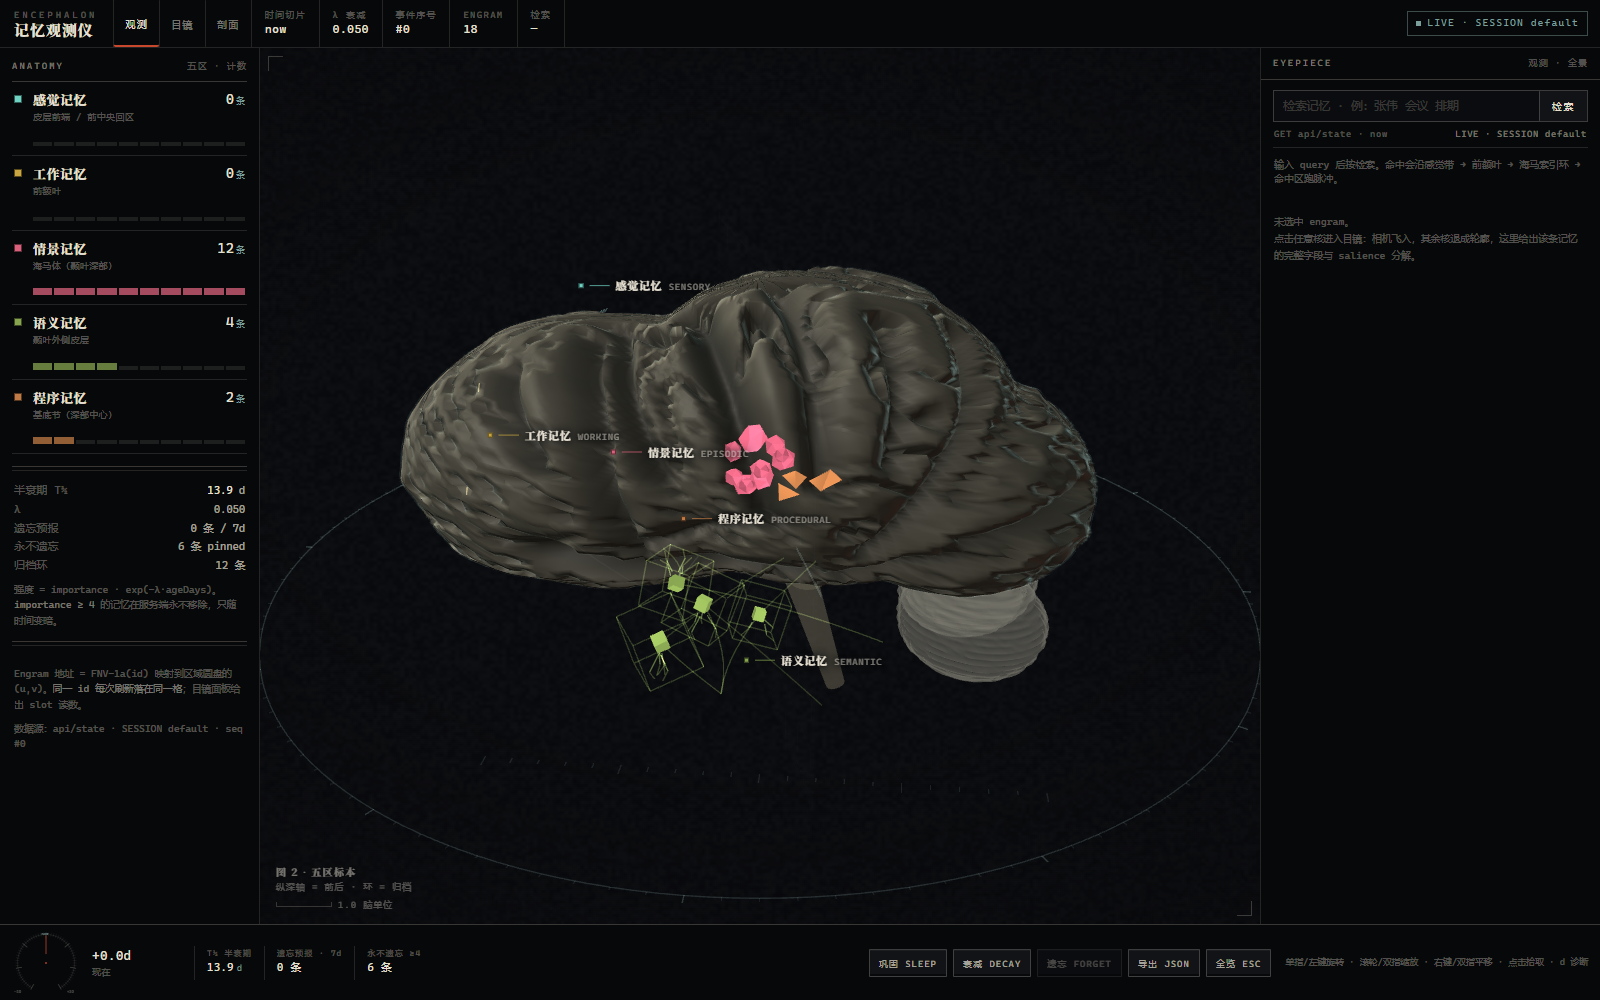
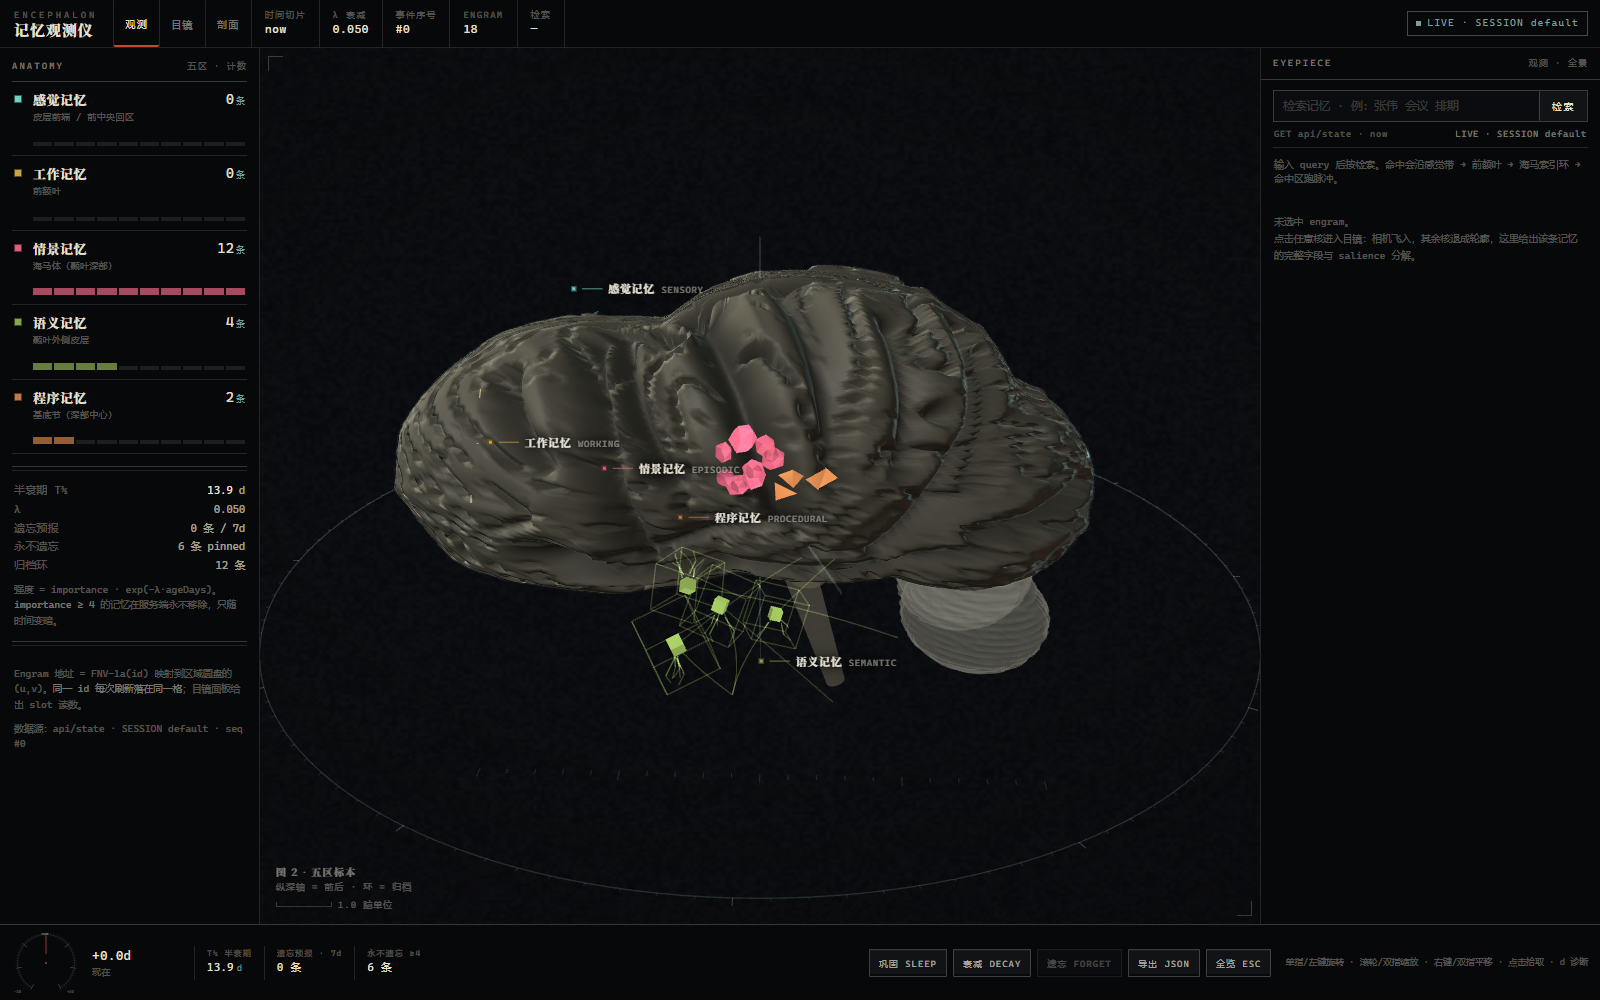
feat(3d): 细分 224x168 + 18 条骨架（补顶叶）+ 叶区脑回宽度调制

Changed region(s): [[0.25, 0.279, 0.6875, 0.682]]

diff --git a/dist/deepseek-brain-3d.html b/dist/deepseek-brain-3d.html
@@ -452,7 +452,7 @@ globalThis.THREE=Object.freeze({ACESFilmicToneMapping:nt,AddEquation:M,AddOperat
     low: small || weak,
     antialias: !(small || weak),
     pixelRatio: small ? Math.min(dpr, 1.5) : dpr,
-    seg: small ? [96, 72] : [176, 132],
+    seg: small ? [104, 80] : [224, 168],
     shell: !(small || weak),
     rim: !(small || weak),
     stars: small ? 340 : 760,
@@ -973,8 +973,10 @@ globalThis.THREE=Object.freeze({ACESFilmicToneMapping:nt,AddEquation:M,AddOperat
     /* 额叶 */
     { id: 'frontal-sup',   w: 0.046, depth: 0.68, pts: [[0.22, 0.94, 0.60], [0.42, 0.86, 0.60], [0.64, 0.70, 0.56], [0.82, 0.48, 0.52]] },
     { id: 'frontal-inf',   w: 0.044, depth: 0.64, pts: [[0.32, 0.62, 0.74], [0.52, 0.50, 0.72], [0.74, 0.34, 0.68]] },
-    /* 顶叶 */
+    /* 顶叶：顶内沟 + 顶上沟 + 顶枕外侧支（补掉原先的空档） */
     { id: 'intraparietal', w: 0.046, depth: 0.66, pts: [[0.30, 0.78, -0.34], [0.52, 0.62, -0.40], [0.74, 0.40, -0.44]] },
+    { id: 'parietal-sup',  w: 0.044, depth: 0.62, pts: [[0.22, 0.90, -0.12], [0.46, 0.82, -0.18], [0.68, 0.64, -0.22], [0.84, 0.40, -0.24]] },
+    { id: 'parieto-lat',   w: 0.042, depth: 0.58, pts: [[0.16, 0.66, -0.62], [0.42, 0.44, -0.66], [0.66, 0.22, -0.68]] },
     /* 颞叶 */
     { id: 'sts',           w: 0.054, depth: 0.82, pts: [[0.86, -0.54, 0.62], [0.94, -0.58, 0.20], [0.95, -0.56, -0.22], [0.88, -0.52, -0.52]] },
     { id: 'temporal-inf',  w: 0.044, depth: 0.62, pts: [[0.84, -0.74, 0.44], [0.90, -0.78, 0.04], [0.88, -0.76, -0.34]] },
@@ -1038,23 +1040,36 @@ globalThis.THREE=Object.freeze({ACESFilmicToneMapping:nt,AddEquation:M,AddOperat
     return _sk;
   }
 
-  function hemiPoint(px, py, pz, side) {
+  /* 皮层高度场：一级沟深槽 + 沿沟平行的次级沟 + 三级沟倍频 + Voronoi 顶冠。
+     抽成独立函数，既是顶点位移的来源，也是法线贴图的烘焙源——两者必须同源。 */
+  var _det = { sul: 0, bump: 0, warpA: 0, warpB: 0 };
+  function surfaceDetail(px, py, pz) {
     var warpA = fbm(px * 3.1 + 11.3, py * 3.1 - 4.1, pz * 3.1 + 7.7, 3);
     var warpB = fbm(px * 4.6 - 2.9, py * 4.6 + 9.2, pz * 4.6 - 5.4, 3);
     var near = sulcusField(px, py, pz);
-    /* 一级沟：以骨架为中心的深槽，宽度取自它自己那一条 */
+    /* 脑回宽度按叶区调制：额极更宽（相位更疏），枕极更细，中央区取中 */
+    var gf = 1.0 - 0.15 * smoothstep(0.0, 0.90, pz) + 0.20 * smoothstep(0.10, -0.85, pz);
     var primary = Math.exp(-Math.pow(near.d1 / near.w, 2.0)) * near.depth;
-    /* 次级沟：相位由「弧长 + 到沟的距离」混合而成，沿最近的沟平行铺开 */
-    var phase = (near.phase + warpA * 0.48 + warpB * 0.22) * Math.PI;
+    var phase = (near.phase * gf + warpA * 0.48 + warpB * 0.22) * Math.PI;
     var band = Math.abs(Math.sin(phase));
-    var secondary = (1 - smoothstep(0.0, 0.215, band)) * 0.88;
-    /* 三级：同相位的倍频，压掉「同心圆」的机械感 */
-    var tert = Math.abs(Math.sin((near.phase * 2.6 - warpB * 1.0) * Math.PI));
+    var secondary = (1 - smoothstep(0.0, 0.215 * (0.9 + 0.1 * gf), band)) * 0.88;
+    var tert = Math.abs(Math.sin((near.phase * gf * 2.6 - warpB * 1.0) * Math.PI));
     var tertiary = (1 - smoothstep(0.0, 0.13, tert)) * 0.24;
-    /* Voronoi：两条一级沟势力范围的分界线上抬成脑回顶冠，避免出现平台 */
     var wall = near.d2 < 8 ? Math.exp(-Math.pow((near.d2 - near.d1) / 0.055, 2.0)) : 0;
     var sul = Math.max(primary, Math.max(secondary, tertiary));
-    var bump = (1 - sul) * 0.55 + 0.45 * warpA + 0.18 * wall;
+    _det.sul = sul;
+    _det.bump = (1 - sul) * 0.55 + 0.45 * warpA + 0.18 * wall;
+    _det.warpA = warpA;
+    _det.warpB = warpB;
+    return _det;
+  }
+
+  function hemiPoint(px, py, pz, side) {
+    var warpA = fbm(px * 3.1 + 11.3, py * 3.1 - 4.1, pz * 3.1 + 7.7, 3);
+    var warpB = fbm(px * 4.6 - 2.9, py * 4.6 + 9.2, pz * 4.6 - 5.4, 3);
+    var det = surfaceDetail(px, py, pz);
+    var warpA = det.warpA, warpB = det.warpB;
+    var sul = det.sul, bump = det.bump;
     var disp = 1 + 0.094 * bump - 0.118 * sul;
     /* 叶形半径：同一条射线上的边界由四叶并集给出，不再是单位球 */
     var lobe = lobeRadius(px, py, pz, side) * LOBE_K;

diff --git a/web/brain-3d.html b/web/brain-3d.html
@@ -440,7 +440,7 @@
     low: small || weak,
     antialias: !(small || weak),
     pixelRatio: small ? Math.min(dpr, 1.5) : dpr,
-    seg: small ? [96, 72] : [176, 132],
+    seg: small ? [104, 80] : [224, 168],
     shell: !(small || weak),
     rim: !(small || weak),
     stars: small ? 340 : 760,
@@ -961,8 +961,10 @@
     /* 额叶 */
     { id: 'frontal-sup',   w: 0.046, depth: 0.68, pts: [[0.22, 0.94, 0.60], [0.42, 0.86, 0.60], [0.64, 0.70, 0.56], [0.82, 0.48, 0.52]] },
     { id: 'frontal-inf',   w: 0.044, depth: 0.64, pts: [[0.32, 0.62, 0.74], [0.52, 0.50, 0.72], [0.74, 0.34, 0.68]] },
-    /* 顶叶 */
+    /* 顶叶：顶内沟 + 顶上沟 + 顶枕外侧支（补掉原先的空档） */
     { id: 'intraparietal', w: 0.046, depth: 0.66, pts: [[0.30, 0.78, -0.34], [0.52, 0.62, -0.40], [0.74, 0.40, -0.44]] },
+    { id: 'parietal-sup',  w: 0.044, depth: 0.62, pts: [[0.22, 0.90, -0.12], [0.46, 0.82, -0.18], [0.68, 0.64, -0.22], [0.84, 0.40, -0.24]] },
+    { id: 'parieto-lat',   w: 0.042, depth: 0.58, pts: [[0.16, 0.66, -0.62], [0.42, 0.44, -0.66], [0.66, 0.22, -0.68]] },
     /* 颞叶 */
     { id: 'sts',           w: 0.054, depth: 0.82, pts: [[0.86, -0.54, 0.62], [0.94, -0.58, 0.20], [0.95, -0.56, -0.22], [0.88, -0.52, -0.52]] },
     { id: 'temporal-inf',  w: 0.044, depth: 0.62, pts: [[0.84, -0.74, 0.44], [0.90, -0.78, 0.04], [0.88, -0.76, -0.34]] },
@@ -1026,23 +1028,36 @@
     return _sk;
   }
 
-  function hemiPoint(px, py, pz, side) {
+  /* 皮层高度场：一级沟深槽 + 沿沟平行的次级沟 + 三级沟倍频 + Voronoi 顶冠。
+     抽成独立函数，既是顶点位移的来源，也是法线贴图的烘焙源——两者必须同源。 */
+  var _det = { sul: 0, bump: 0, warpA: 0, warpB: 0 };
+  function surfaceDetail(px, py, pz) {
     var warpA = fbm(px * 3.1 + 11.3, py * 3.1 - 4.1, pz * 3.1 + 7.7, 3);
     var warpB = fbm(px * 4.6 - 2.9, py * 4.6 + 9.2, pz * 4.6 - 5.4, 3);
     var near = sulcusField(px, py, pz);
-    /* 一级沟：以骨架为中心的深槽，宽度取自它自己那一条 */
+    /* 脑回宽度按叶区调制：额极更宽（相位更疏），枕极更细，中央区取中 */
+    var gf = 1.0 - 0.15 * smoothstep(0.0, 0.90, pz) + 0.20 * smoothstep(0.10, -0.85, pz);
     var primary = Math.exp(-Math.pow(near.d1 / near.w, 2.0)) * near.depth;
-    /* 次级沟：相位由「弧长 + 到沟的距离」混合而成，沿最近的沟平行铺开 */
-    var phase = (near.phase + warpA * 0.48 + warpB * 0.22) * Math.PI;
+    var phase = (near.phase * gf + warpA * 0.48 + warpB * 0.22) * Math.PI;
     var band = Math.abs(Math.sin(phase));
-    var secondary = (1 - smoothstep(0.0, 0.215, band)) * 0.88;
-    /* 三级：同相位的倍频，压掉「同心圆」的机械感 */
-    var tert = Math.abs(Math.sin((near.phase * 2.6 - warpB * 1.0) * Math.PI));
+    var secondary = (1 - smoothstep(0.0, 0.215 * (0.9 + 0.1 * gf), band)) * 0.88;
+    var tert = Math.abs(Math.sin((near.phase * gf * 2.6 - warpB * 1.0) * Math.PI));
     var tertiary = (1 - smoothstep(0.0, 0.13, tert)) * 0.24;
-    /* Voronoi：两条一级沟势力范围的分界线上抬成脑回顶冠，避免出现平台 */
     var wall = near.d2 < 8 ? Math.exp(-Math.pow((near.d2 - near.d1) / 0.055, 2.0)) : 0;
     var sul = Math.max(primary, Math.max(secondary, tertiary));
-    var bump = (1 - sul) * 0.55 + 0.45 * warpA + 0.18 * wall;
+    _det.sul = sul;
+    _det.bump = (1 - sul) * 0.55 + 0.45 * warpA + 0.18 * wall;
+    _det.warpA = warpA;
+    _det.warpB = warpB;
+    return _det;
+  }
+
+  function hemiPoint(px, py, pz, side) {
+    var warpA = fbm(px * 3.1 + 11.3, py * 3.1 - 4.1, pz * 3.1 + 7.7, 3);
+    var warpB = fbm(px * 4.6 - 2.9, py * 4.6 + 9.2, pz * 4.6 - 5.4, 3);
+    var det = surfaceDetail(px, py, pz);
+    var warpA = det.warpA, warpB = det.warpB;
+    var sul = det.sul, bump = det.bump;
     var disp = 1 + 0.094 * bump - 0.118 * sul;
     /* 叶形半径：同一条射线上的边界由四叶并集给出，不再是单位球 */
     var lobe = lobeRadius(px, py, pz, side) * LOBE_K;

diff --git a/README.md b/README.md
@@ -341,12 +341,14 @@ node tools/build-3d.mjs      # 生成 dist/deepseek-brain-3d.html
 
 - 皮层不再是一颗椭球：`LOBE_C` 定义额/顶/枕/颞四叶的椭球场（`[cx,cy,cz, rx,ry,rz, mirror]`，颞叶按半球镜像），用 polynomial smooth-max（`k = 0.14`）求并集，再沿每个顶点方向二分 16 次求边界半径 `lobeRadius()`；`LOBE_K` 把并集最大半径归一到 1。于是额极收窄、顶点抬高、枕极圆钝、颞叶外凸——这些都是几何而不是贴图。
 - 两个**闭合**半球：内侧顶点被 softMax 折到 `x ≈ ±gapHalf` 的墙面上，两壁之间是真缝（纵裂）；脑底面在颅底处压平（`py < -0.30` 后的 0.58 折减）。
-- 沟回由**带分叉的一级沟骨架树**驱动：`SULCI` 里的 16 条折线（中央沟主干 + 上支 + 下支、中央前/后沟、外侧裂主干 + 升支 + 后支、额上/额下沟、顶内沟、颞上/颞下沟、顶枕沟、距状沟、扣带沟）都定义在单位球方向空间；每个顶点一次遍历算出到最近骨架的角距离 `d1`、到次近骨架的 `d2` 与按 `w=exp(−(d/0.30)²)` 融合的相位——
+- 沟回由**带分叉的一级沟骨架树**驱动：`SULCI` 里的 18 条折线（中央沟主干 + 上支 + 下支、中央前/后沟、外侧裂主干 + 升支 + 后支、额上/额下沟、顶内沟、顶上沟、顶枕外侧支、颞上/颞下沟、顶枕沟、距状沟、扣带沟）都定义在单位球方向空间；每个顶点一次遍历算出到最近骨架的角距离 `d1`、到次近骨架的 `d2` 与按 `w=exp(−(d/0.30)²)` 融合的相位——
   - 一级沟：`d1≈0` 处按各自宽度开深槽 `exp(−(d1/w)²)·depth`；
   - 次级沟：相位 = 加权平均的 `(弧长·1.05 + d·17.0)`，所以脑回走向在两条沟的势力边界上是**平滑过渡**的，不会突然换向；
   - 三级沟：同相位倍频 `2.6×`，压掉同心圆；
-  - **Voronoi 顶冠**：`wall = exp(−((d2−d1)/0.055)²)` 在两条沟的分界线上把皮层抬起来，于是两沟之间是圆隆的脑回顶，而不是平台。
+  - **Voronoi 顶冠**：`wall = exp(−((d2−d1)/0.055)²)` 在两条沟的分界线上把皮层抬起来，于是两沟之间是圆隆的脑回顶，而不是平台；
+  - **叶区调制**：相位再乘一个由前后位置决定的 `gf = 1 − 0.15·smoothstep(0, 0.90, pz) + 0.20·smoothstep(0.10, −0.85, pz)`——额极更宽（`gf≈0.85`）、枕极更细（`gf≈1.20`），治掉原先「脑回宽度整齐划一」的塑料感。
   合成 `bump = (1−sul)·0.55 + 0.45·warpA + 0.18·wall`，`disp = 1 + 0.094·bump − 0.118·sul`。中央沟与外侧裂因此是真正的分叶深沟，不是画上去的线。
+- 半球细分 `seg: [224, 168]`（低画质 `[104, 80]`），约 10 万顶点/半球；加载时一次性算完位移与顶点色，桌面端 `DOMContentLoaded ≈ 1.2 s`。
 - 小脑是两半球 + 蚓部三个网格（共用一份叶片条纹几何），脑干与桥脑独立。
 - 皮层用 `MeshStandardMaterial` 承接真实定向光（key/fill/rim 三灯 + 半球光），顶点色承载沟回的「沟底变暗」；engram 用 `depthTest:false` 的 X 光叠加，所以能隔着皮质看到深部结构——这是仪器语义，不是穿模。
 - 剖面切面是**解析式着色器**：`vUv` 上算灰质带（`smoothstep(rim-0.19, rim-0.05, r)`）、皮质-白质交界亮线、胼胝体弧、穹窿、侧脑室、基底节，再叠一层 hash 颗粒与沿灰质带的沟刻痕；不经过纹理，所以没有色彩空间损耗。
@@ -467,7 +469,8 @@ deepseek-brain/
 - `vector` 默认关闭。`hash` provider 只是字符级哈希相似度，不是真正的语义嵌入；接 LanceDB 时可以注入自己的 embedding。
 - Windows 上文件写入走「删目标再 rename」的回退路径，极端断电窗口内可能丢一次写入，但有备份兜底。
 - 3D 页面在 `file://` 下无法访问 API，会自动切到内置演示记忆；实时数据请走 `brain_dashboard` 给出的 URL。
-- 3D 皮质是**程序化近似**，不是医学模型：叶形来自四椭球并集，沟回来自六条一级沟骨架 + 平行相位；一级沟的位置是手调的近似解，脑回宽度比真实大脑更均匀，额极/枕极偏圆钝，小脑叶片仍是正弦条纹；远看合格，贴近看依然是「生成物」。engram 用 X 光叠加（`depthTest:false`）是刻意的仪器语义，不是穿模。
+- 3D 皮质是**程序化近似**，不是医学模型：叶形来自四椭球并集，沟回来自 18 条一级沟骨架（含分叉）+ 平行相位 + Voronoi 顶冠；一级沟的位置是手调的近似解，脑回在顶叶与颞叶交界一带仍偏放射状，额极/枕极偏圆钝，小脑叶片仍是正弦条纹；远看合格，贴近看依然是「生成物」。engram 用 X 光叠加（`depthTest:false`）是刻意的仪器语义，不是穿模。
+- 曾尝试用同一高度场烘焙切线空间法线贴图来补近距离细节，**已放弃**：次级沟在球面 UV 上的周期只有约 6 px，224/320 分辨率下会采样出摩尔纹，画面变成一片「鳞片」；真要做需要位移贴图 + 三平面投影，成本远超收益。现在靠 224×168 细分 + 顶点位移解决轮廓，近看仍是光滑的。
 - 时间旅行只重算**强度与预报**，不会真的把记忆写回过去；`?at=` 是只读的时间切片。
 - Windows PowerShell 的 `Invoke-RestMethod` 默认按 ANSI 发 body，中文会变成 `??`；用 `[Text.Encoding]::UTF8.GetBytes($body)`（见 `docs/EXAMPLES.md`）。
 - 390 px 下观测仪把左侧脑区表收成横向条、把目镜改成底部抽屉；3D 页在竖屏会把标本按比例拉远，避免裁掉两颞侧，代价是上下留白。
